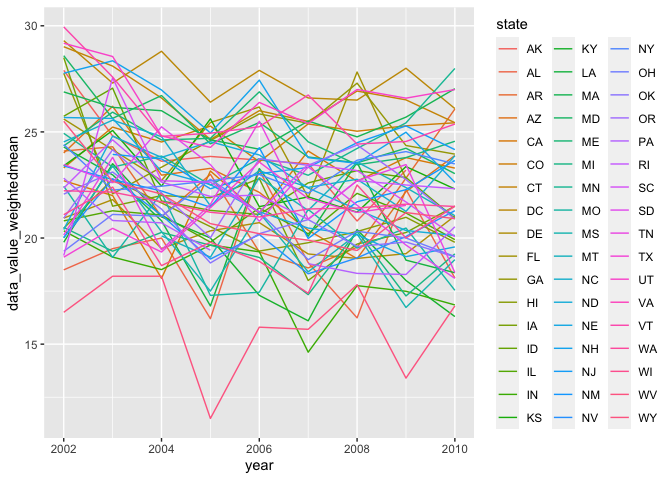
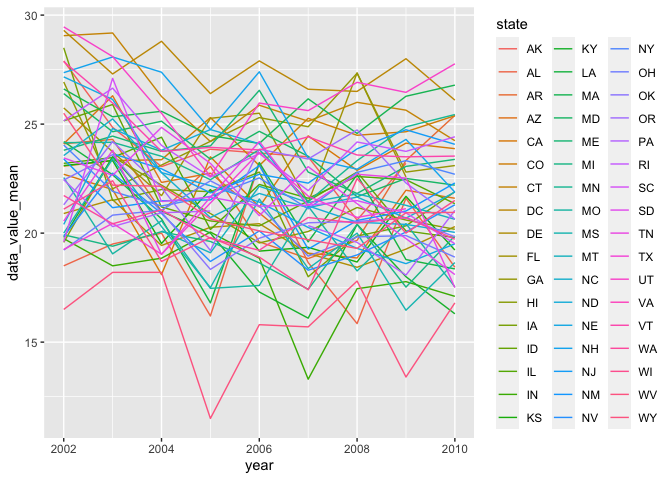
made the two panel plots

diff --git a/P8105_HW3_zc2555.md b/P8105_HW3_zc2555.md
@@ -215,18 +215,15 @@ brfss_excellent = brfss %>%
   filter(response == "Excellent")%>%
   mutate(data_value_sum = sample_size*data_value) %>% 
   group_by(year, state) %>%
-  summarise(nsample = sum(sample_size),
-              data_value_sumall = sum(data_value_sum),
-              data_value_mean = mean(data_value)) %>% 
-    mutate(data_value_weightedmean = data_value_sumall/nsample) %>% 
-    select(year, state, data_value_weightedmean, data_value_mean)
+  summarise(data_value_mean = mean(data_value)) %>% 
+    select(year, state,  data_value_mean)
 ```
 
     ## `summarise()` has grouped output by 'year'. You can override using the `.groups` argument.
 
 ``` r
 brfss_excellent %>%
-  ggplot(aes(x = year, y = data_value_weightedmean, group = state, color = state)) +
+  ggplot(aes(x = year, y = data_value_mean, group = state, color = state)) +
  geom_line()
 ```
 
